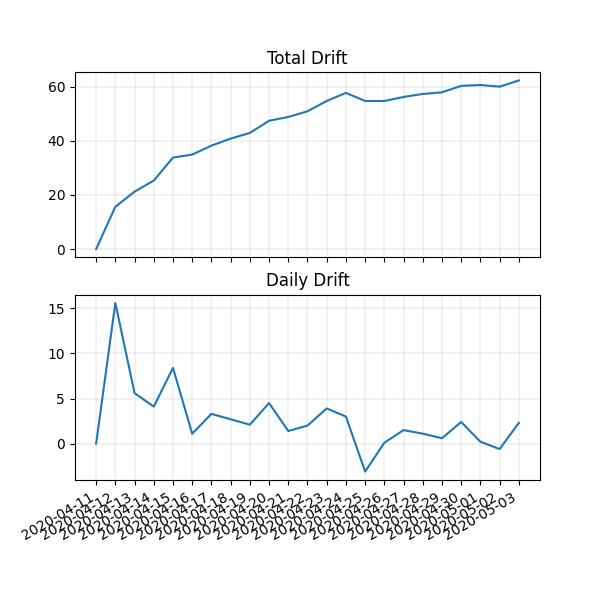
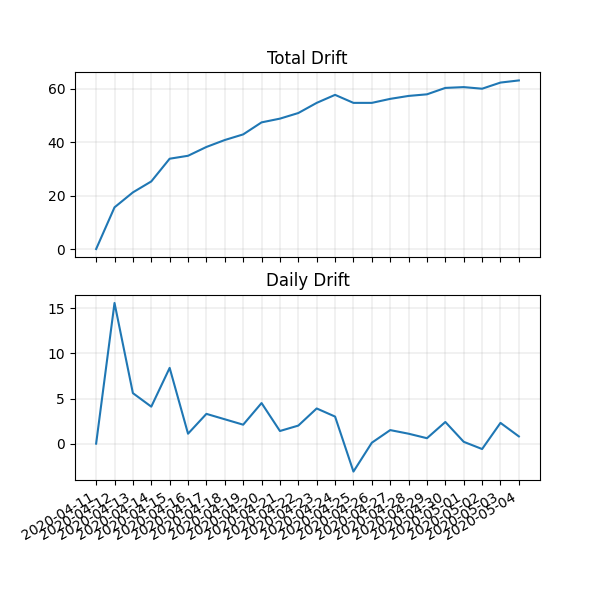
Mon May  4 15:30:15 EDT 2020

diff --git a/README.md b/README.md
@@ -1,10 +1,11 @@
 # MMR Drift Status
 
-**Last Updated (UTC):** 2020-05-03 21:15:12.202733
+**Last Updated (UTC):** 2020-05-04 19:30:15.250817
 ![Figure 1](/images/fig1.png)
 ![Figure 2](/images/fig2.png)
 |date| min| max| mean| drift_daily| drift_total| median| stdev|
 |:---|:---|:---|:---|:---|:---|:---|:--- |
+|2020-05-04| 3015| 3244| 3057.7| 0.8| 63.1| 3047.0| 38.5|
 |2020-05-03| 3014| 3244| 3056.9| 2.3| 62.3| 3045.0| 39.0|
 |2020-05-02| 3013| 3244| 3054.6| -0.6| 60.0| 3043.0| 37.8|
 |2020-05-01| 3014| 3244| 3055.2| 0.2| 60.6| 3044.0| 38.6|
